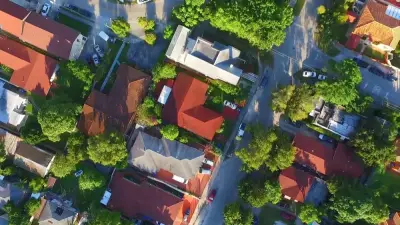
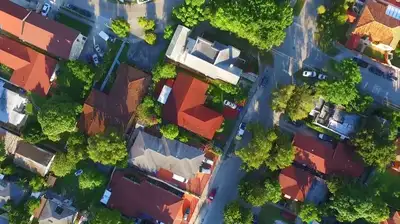
Resize co.webp to 900w and compress all variants at q60
Reduces co.webp from 98KB to 66KB. Fixes Lighthouse image delivery
audit for high-DPR mobile devices.

diff --git a/index.html b/index.html
@@ -306,8 +306,8 @@
                 <div class="col-lg-6 fade-in-up">
                     <div class="about-image-wrapper">
                         <picture>
-                            <source srcset="img/co-400.webp 400w, img/co-700.webp 700w, img/co.webp 1000w" sizes="(max-width: 767px) calc(100vw - 64px), (max-width: 1199px) 45vw, 500px" type="image/webp">
-                            <img src="img/co.jpg" alt="Aerial view of Miami residential community managed by ASPMG" class="about-image" loading="lazy" width="1000" height="562">
+                            <source srcset="img/co-400.webp 400w, img/co-700.webp 700w, img/co.webp 900w" sizes="(max-width: 767px) calc(100vw - 64px), (max-width: 1199px) 45vw, 500px" type="image/webp">
+                            <img src="img/co.jpg" alt="Aerial view of Miami residential community managed by ASPMG" class="about-image" loading="lazy" width="900" height="505">
                         </picture>
                         <div class="about-image-accent"></div>
                         <div class="about-experience-badge">
